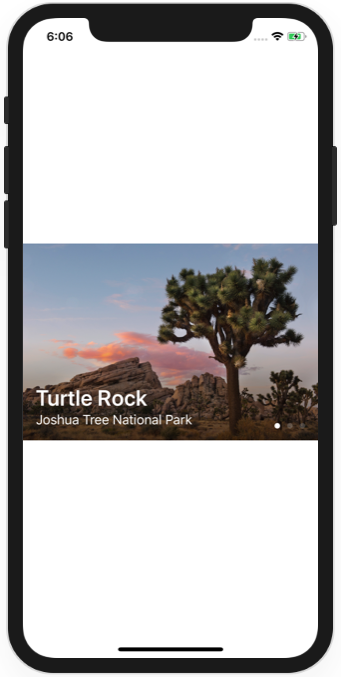
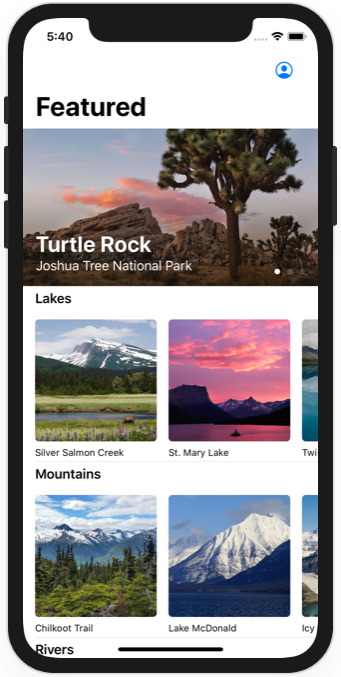
Add page view to home page

diff --git a/04-FrameworkIntegration/01-InterfacingWithUIKit/StartingPoint/Landmarks/Landmarks/Home.swift b/04-FrameworkIntegration/01-InterfacingWithUIKit/StartingPoint/Landmarks/Landmarks/Home.swift
@@ -36,8 +36,8 @@ struct CategoryHome: View {
         NavigationView {
             List {
                 FeaturedLandmarks(landmarks: featured)
-                    .scaledToFill()
-                    .frame(height: 200)
+                    .aspectRatio(3/2, contentMode: .fill)
+                    .frame(height: 200, alignment: .bottom)
                     .clipped()
                     .listRowInsets(EdgeInsets())
 
@@ -62,14 +62,26 @@ struct CategoryHome: View {
 
 struct FeaturedLandmarks: View {
     var landmarks: [Landmark]
+
+    @State private var navigateToFeature = false
+    @State private var currentFeaturedLandmark: Landmark?
+
     var body: some View {
         // use a ZStack to hide the navigation arrow
         ZStack {
-            NavigationLink(destination: LandmarkDetail(landmark: landmarks[0])) { EmptyView() }
+            NavigationLink(destination: LandmarkDetail(landmark: currentFeaturedLandmark ?? landmarks[0]), isActive: $navigateToFeature) {
+                EmptyView()
+            }
 
-            landmarks[0].image
-                .resizable()
-                .renderingMode(.original)
+            PageView(
+                features.map { landmark in
+                    FeatureCard(landmark: landmark)
+                        .onTapGesture {
+                            self.currentFeaturedLandmark = landmark
+                            self.navigateToFeature.toggle()
+                    }
+                }
+            )
         }
     }
 }

diff --git a/04-FrameworkIntegration/01-InterfacingWithUIKit/StartingPoint/Landmarks/Landmarks/PageViewController.swift b/04-FrameworkIntegration/01-InterfacingWithUIKit/StartingPoint/Landmarks/Landmarks/PageViewController.swift
@@ -24,12 +24,17 @@ struct PageViewController: UIViewControllerRepresentable {
         pageViewController.dataSource = context.coordinator
         pageViewController.delegate = context.coordinator
 
+        // move this here from updateUIViewController,
+        // as otherwise it breaks navigation
+        // (difference is that makeUIViewController is called only once)
+        pageViewController.setViewControllers(
+            [controllers[currentPage]], direction: .forward, animated: true)
+
         return pageViewController
     }
 
     func updateUIViewController(_ pageViewController: UIPageViewController, context: Context) {
-        pageViewController.setViewControllers(
-            [controllers[currentPage]], direction: .forward, animated: true)
+        // content moved to makeUIViewController
     }
 
     class Coordinator: NSObject, UIPageViewControllerDataSource, UIPageViewControllerDelegate {
